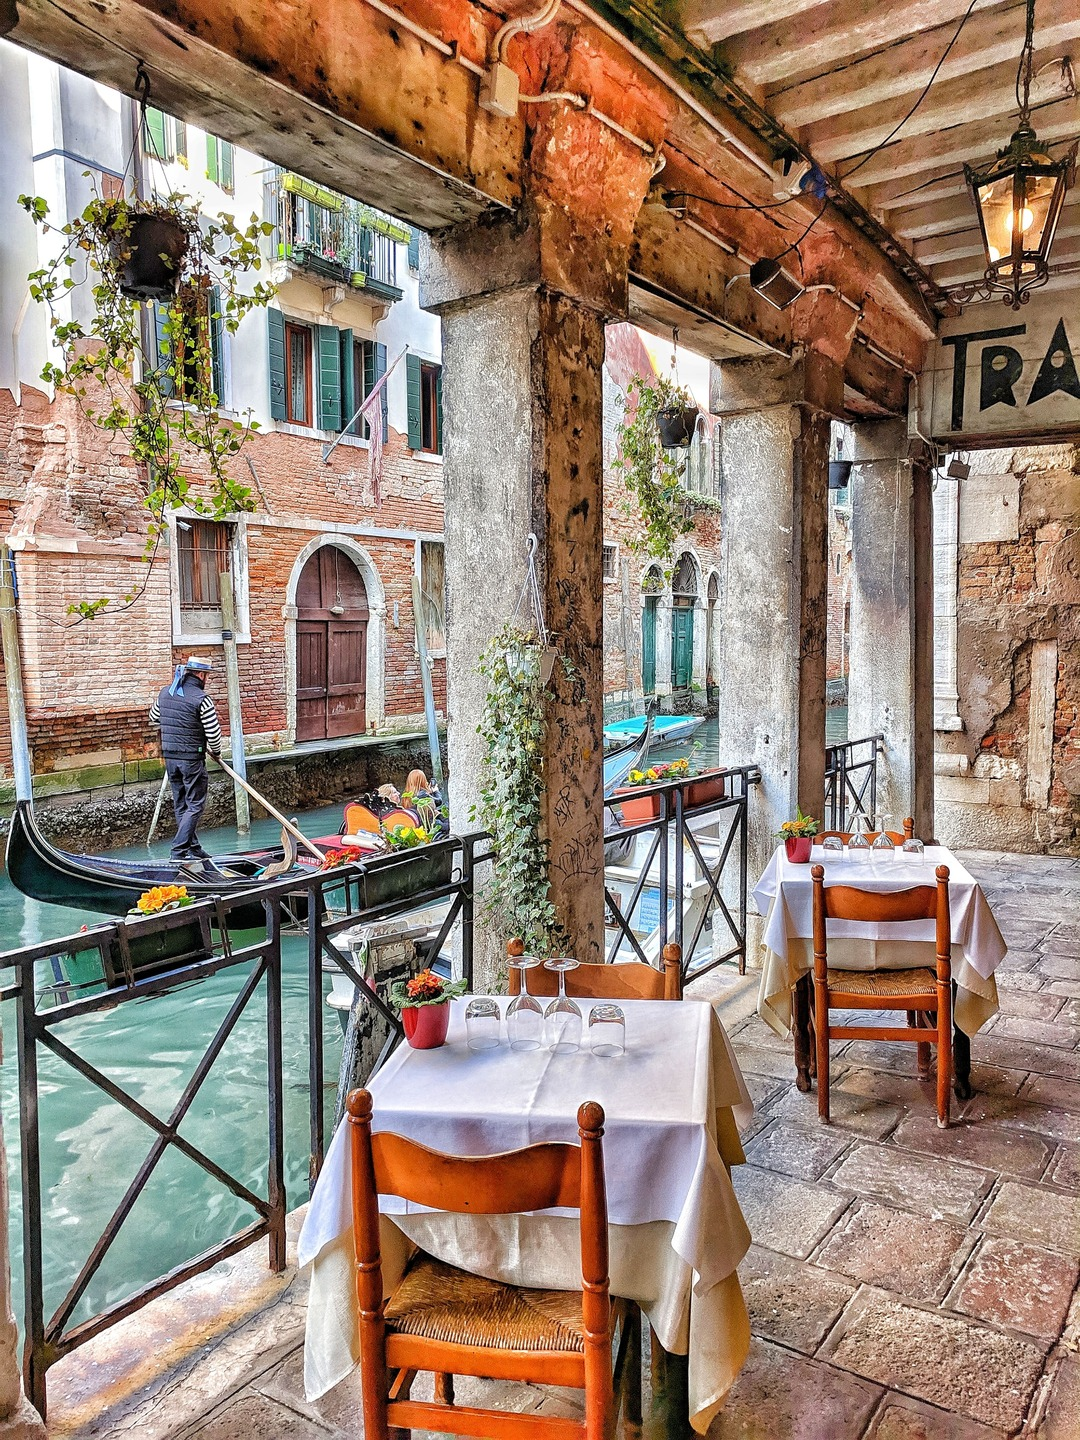
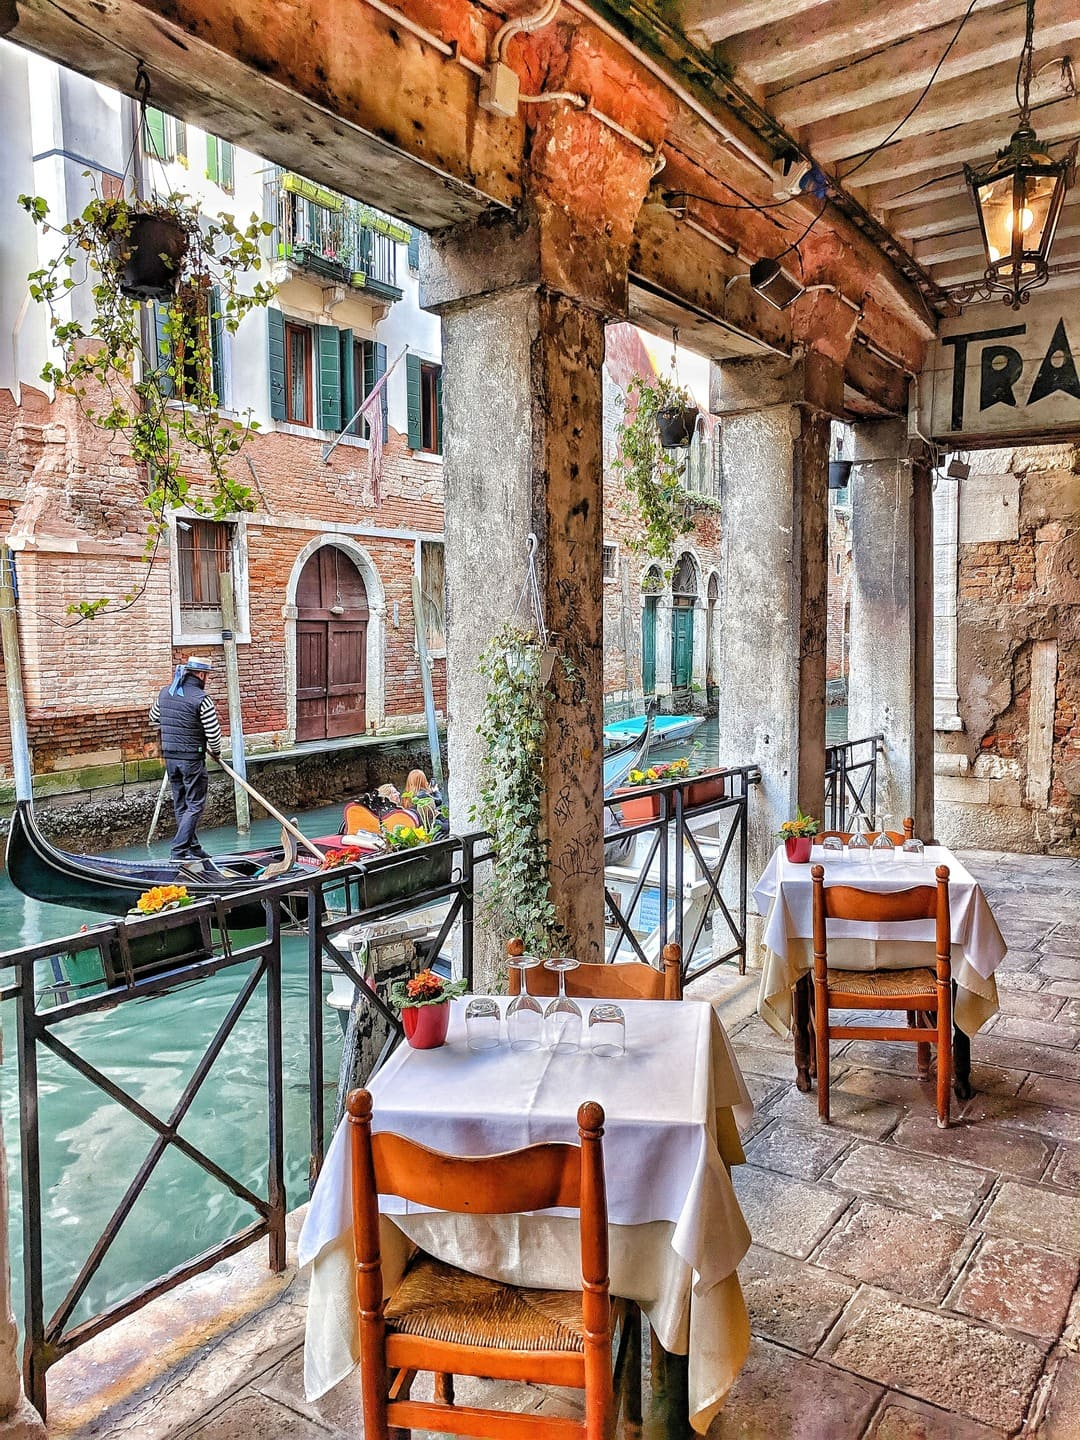
upload light images

diff --git a/src/pages/index.tsx b/src/pages/index.tsx
@@ -16,11 +16,11 @@ export default function Home() {
   const [firstOpen, setFirstOpen] = useState(true)
 
   const backgroundsList = [
-    { id: 1, image: 'static/img/popup/coliseu.png' },
-    { id: 2, image: 'static/img/popup/pizzeria.png' },
-    { id: 3, image: 'static/img/popup/positano.png' },
-    { id: 4, image: 'static/img/popup/ristorant.png' },
-    { id: 5, image: 'static/img/popup/veneza.png' },
+    { id: 1, image: 'static/img/popup/coliseu.jpg' },
+    { id: 2, image: 'static/img/popup/pizzeria.jpg' },
+    { id: 3, image: 'static/img/popup/positano.jpg' },
+    { id: 4, image: 'static/img/popup/ristorant.jpg' },
+    { id: 5, image: 'static/img/popup/veneza.jpg' },
   ]
 
   const [background, setBackground] = useState(0)
